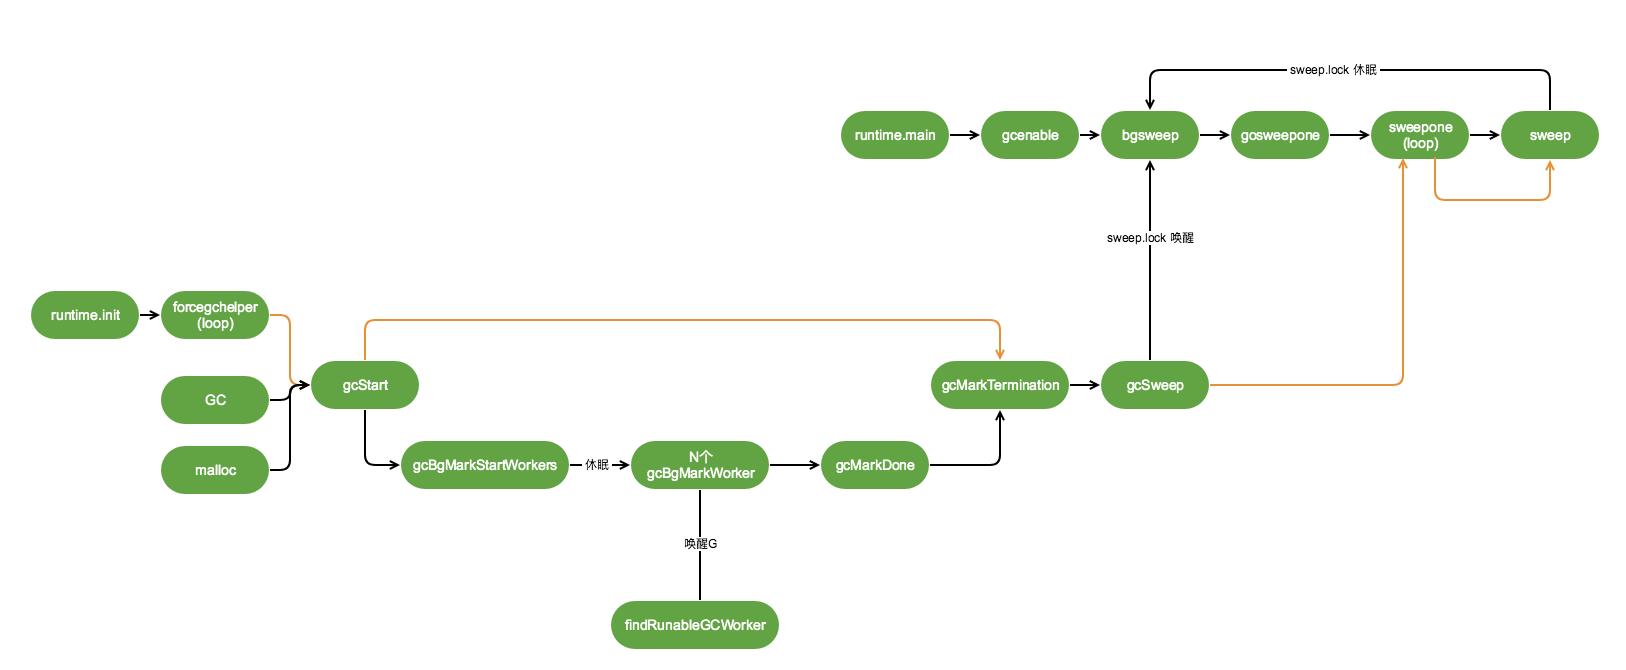
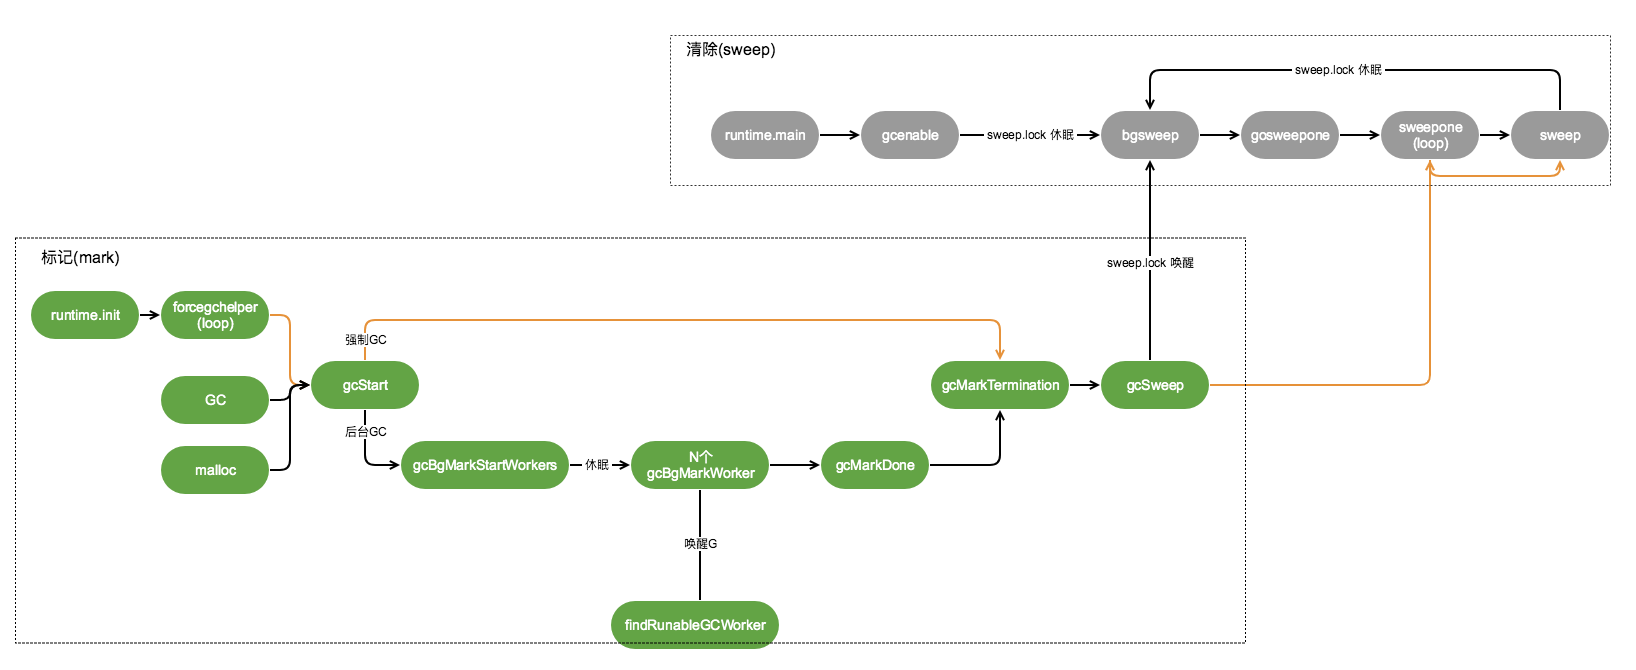
update

diff --git a/从源码角度看Golang的堆内存管理.md b/从源码角度看Golang的堆内存管理.md
@@ -868,6 +868,31 @@ func (h *mheap) allocLarge(npage uintptr) *mspan {
 
 上面分析完内存分配，有分配自然就有释放，也就是我们的GC了。下面对Go的GC过程做下分析。
 
-先看下堆内存分配的过程图：
+在源码里有这么一段注释：
+
+```
+// runtime/mgc.go
+
+// The GC runs concurrently with mutator threads, is type accurate (aka precise), allows multiple
+// GC thread to run in parallel. It is a concurrent mark and sweep that uses a write barrier. It is
+// non-generational and non-compacting.
+```
+`GC`与`mutator`线程并行运行，允许GC线程并行的运行。它是一个使用写屏障的标记(mark)和清除(sweep)。它即不是**分代算法**也不是**标记-压缩(Mark-Compact)**算法。Go的GC采用的**标记-清除(Mark-Sweep)**算法。
+
+先看下GC的主要流程图：
 
 ![](images/heap6.png)
+
+GC被分为两大块逻辑：一块`标记`(绿色部分)、一块`清除`(灰色部分)。首先runtime启动的时候开启一个用于清扫的Goroutine，启动后不做任何操作进入休眠等待有清除的工作。然后启动标记工作任务进行并发标记，标记完成后唤醒负责清除任务的Goroutine，清除任务完成后再次休眠等待下一轮GC。
+
+> 注1：标记任务的启动有三个触发方式：1）内存分配时检测增长到达一定量时触发。2）强制2分钟触发(forcegchelper)。3）外部用户触发。
+
+> 注2：源码注释里有说sweep是并发的，为什么只开启了一个Goroutine？因为源码中所描述的sweep是并发的指的是`sweep方法`可以并发调用，也就是说纯做清除工作的方法是支持并发的，并不是可以开启多个`sweep过程`的Goroutine。
+
+下面分别从`标记过程`、`清理过程`、`如何与内存分配的关联`三个方向看实现。
+
+### 标记(Mark)过程
+
+### 清理(Sweep)过程
+
+### 如何与内存分配关联
